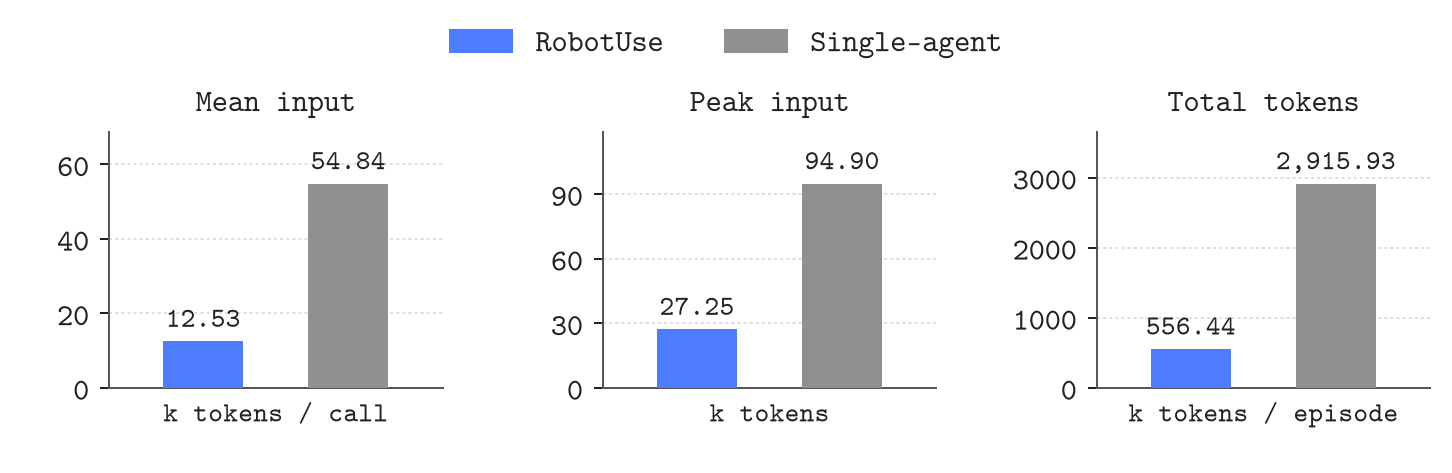
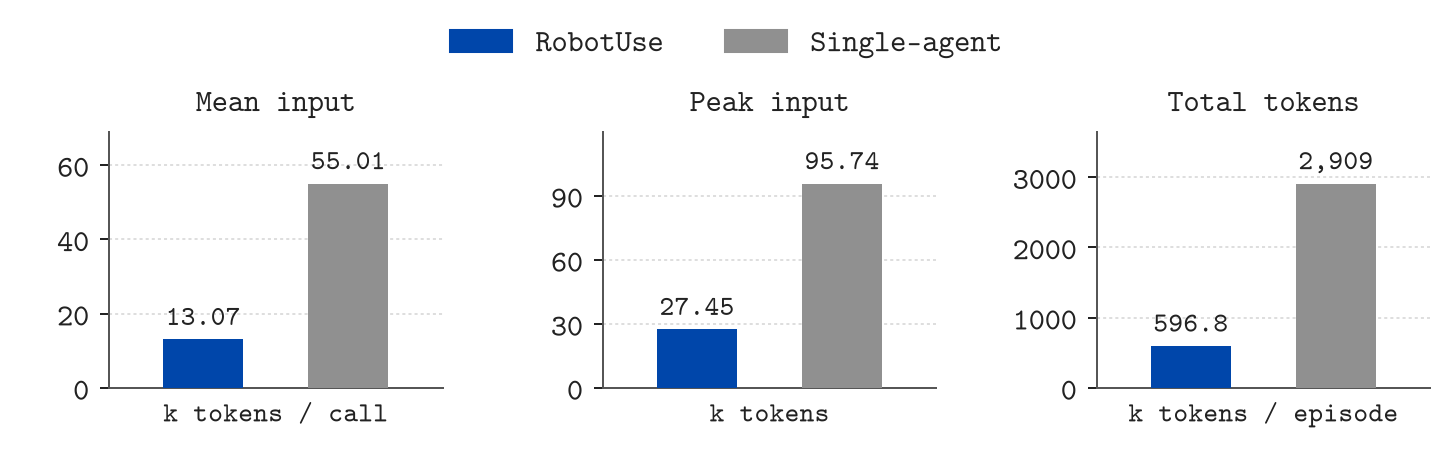
Update context harnessing figure and caption to 120-episode results

diff --git a/index.html b/index.html
@@ -330,8 +330,8 @@
   <section id="context">
     <h2>Context Harnessing</h2>
     <figure class="paper-figure wide">
-      <img src="assets/figures/context-usage.png" alt="Token usage comparison between single-agent execution and RobotUse across ten tasks." loading="lazy">
-      <figcaption>Token usage on ten tasks. Mean and peak input are averaged across episodes; total tokens include input and output per episode.</figcaption>
+      <img src="assets/figures/context-usage.png?v=120episodes" alt="Token usage for RobotUse and single-agent execution across 40 tasks and 3 seeds (120 episodes per condition)." loading="lazy">
+      <figcaption>Token usage for RobotUse and single-agent execution across 40 tasks and 3 seeds (120 episodes per condition). Mean and peak input are averaged across episodes; total tokens sum input and output within each episode.</figcaption>
     </figure>
   </section>
 
